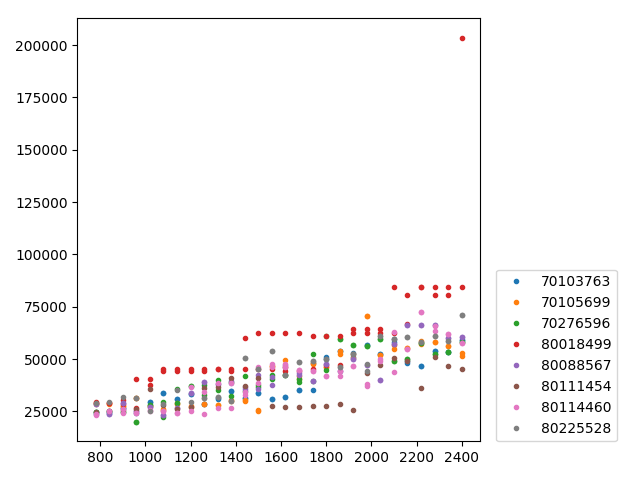
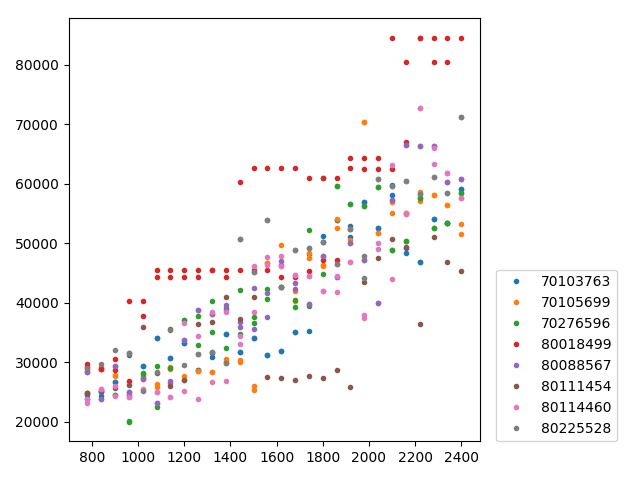
plots cleaner, investigating size issues

diff --git a/plot_attack.py b/plot_attack.py
@@ -7,7 +7,8 @@ from python_libs.har_analyzer import HarAnalyzer
 config = StaticConfig()
 analyzer = HarAnalyzer(config.attack_dir, str(config.attack_version) + '.json')
 
-lookup = {}
+thorughput_lookup = {}
+packet_count_lookup = {}
 
 # create lookup like lookup[movie_id][bandwidth] = video_size
 for file_name in analyzer.get_file_names():
@@ -16,25 +17,34 @@ for file_name in analyzer.get_file_names():
     movie_id = int(splits[0])
     bandwidth = int(splits[1])
 
+    capture_statistics = analyzer.get_capture_statistics()[file_name]
+
     # ignore value if its too small to be possible
-    value = analyzer.get_capture_statistics()[file_name].get_throughput()
+    value = capture_statistics.get_throughput()
     if value < 1000:
         continue
 
     # add to big result dictionary
-    lookup.setdefault(movie_id, {})
-    lookup[movie_id].setdefault(bandwidth, [])
-    lookup[movie_id][bandwidth].append(value)
+    thorughput_lookup.setdefault(movie_id, {})
+    thorughput_lookup[movie_id].setdefault(bandwidth, [])
+    thorughput_lookup[movie_id][bandwidth].append(value)
+
+    packet_count_lookup.setdefault(movie_id, {})
+    packet_count_lookup[movie_id].setdefault(bandwidth, [])
+    packet_count_lookup[movie_id][bandwidth].append(capture_statistics.get_packet_count)
 
 # plot bandwidth, video_size per movie
-for movie_id in lookup:
+for movie_id in thorughput_lookup:
     x = []
     y = []
 
-    for bandwidth in lookup[movie_id]:
-        for entry in lookup[movie_id][bandwidth]:
-            x.append(bandwidth)
-            y.append(entry)
+    for bandwidth in thorughput_lookup[movie_id]:
+        bandwidths = thorughput_lookup[movie_id][bandwidth]
+        packet_counts = packet_count_lookup[movie_id][bandwidth]
+        if len(thorughput_lookup[movie_id][bandwidth]) > 0:
+            for entry in bandwidths:
+                x.append(bandwidth)
+                y.append(entry)
 
     # plot
     plt.plot(x, y, "ro")
@@ -49,14 +59,15 @@ legendValue = []
 # create single subplot
 fig, axes = plt.subplots(1, 1)
 movie_ids = ""
-for movie_id in lookup:
+for movie_id in thorughput_lookup:
     x = []
     y = []
 
-    for bandwidth in lookup[movie_id]:
-        for entry in lookup[movie_id][bandwidth]:
-            x.append(bandwidth)
-            y.append(entry)
+    for bandwidth in thorughput_lookup[movie_id]:
+        for entry in thorughput_lookup[movie_id][bandwidth]:
+            if entry < 150000:
+                x.append(bandwidth)
+                y.append(entry)
 
     # plot with label = movie_id
     axes.plot(x, y, label=str(movie_id), marker='.', linewidth=0)

diff --git a/python_libs/har_analyzer.py b/python_libs/har_analyzer.py
@@ -59,13 +59,16 @@ class HarAnalyzer:
 
             # calculate video size
             video_size = 0
+            packet_count = 0
             for entry in self.__har_entries_dict[file_name]:
                 if entry.is_video:
                     video_size += entry.body_size
+                    packet_count += 1
 
             # create statistics object
             capture_statistics = CaptureStatistics()
             capture_statistics.video_size = video_size
+            capture_statistics.packet_count = packet_count
             capture_statistics.capture_length = self.__json_dict[file_name]["configuration"]["capture_duration"]
 
             self.__capture_statistics[file_name] = capture_statistics
@@ -183,6 +186,10 @@ class CaptureStatistics:
     def __init__(self):
         self.video_size = 0
         self.capture_length = 0
+        self.packet_count = 0
 
     def get_throughput(self):
         return self.video_size / self.capture_length
+
+    def get_packet_count(self):
+        return self.packet_count
